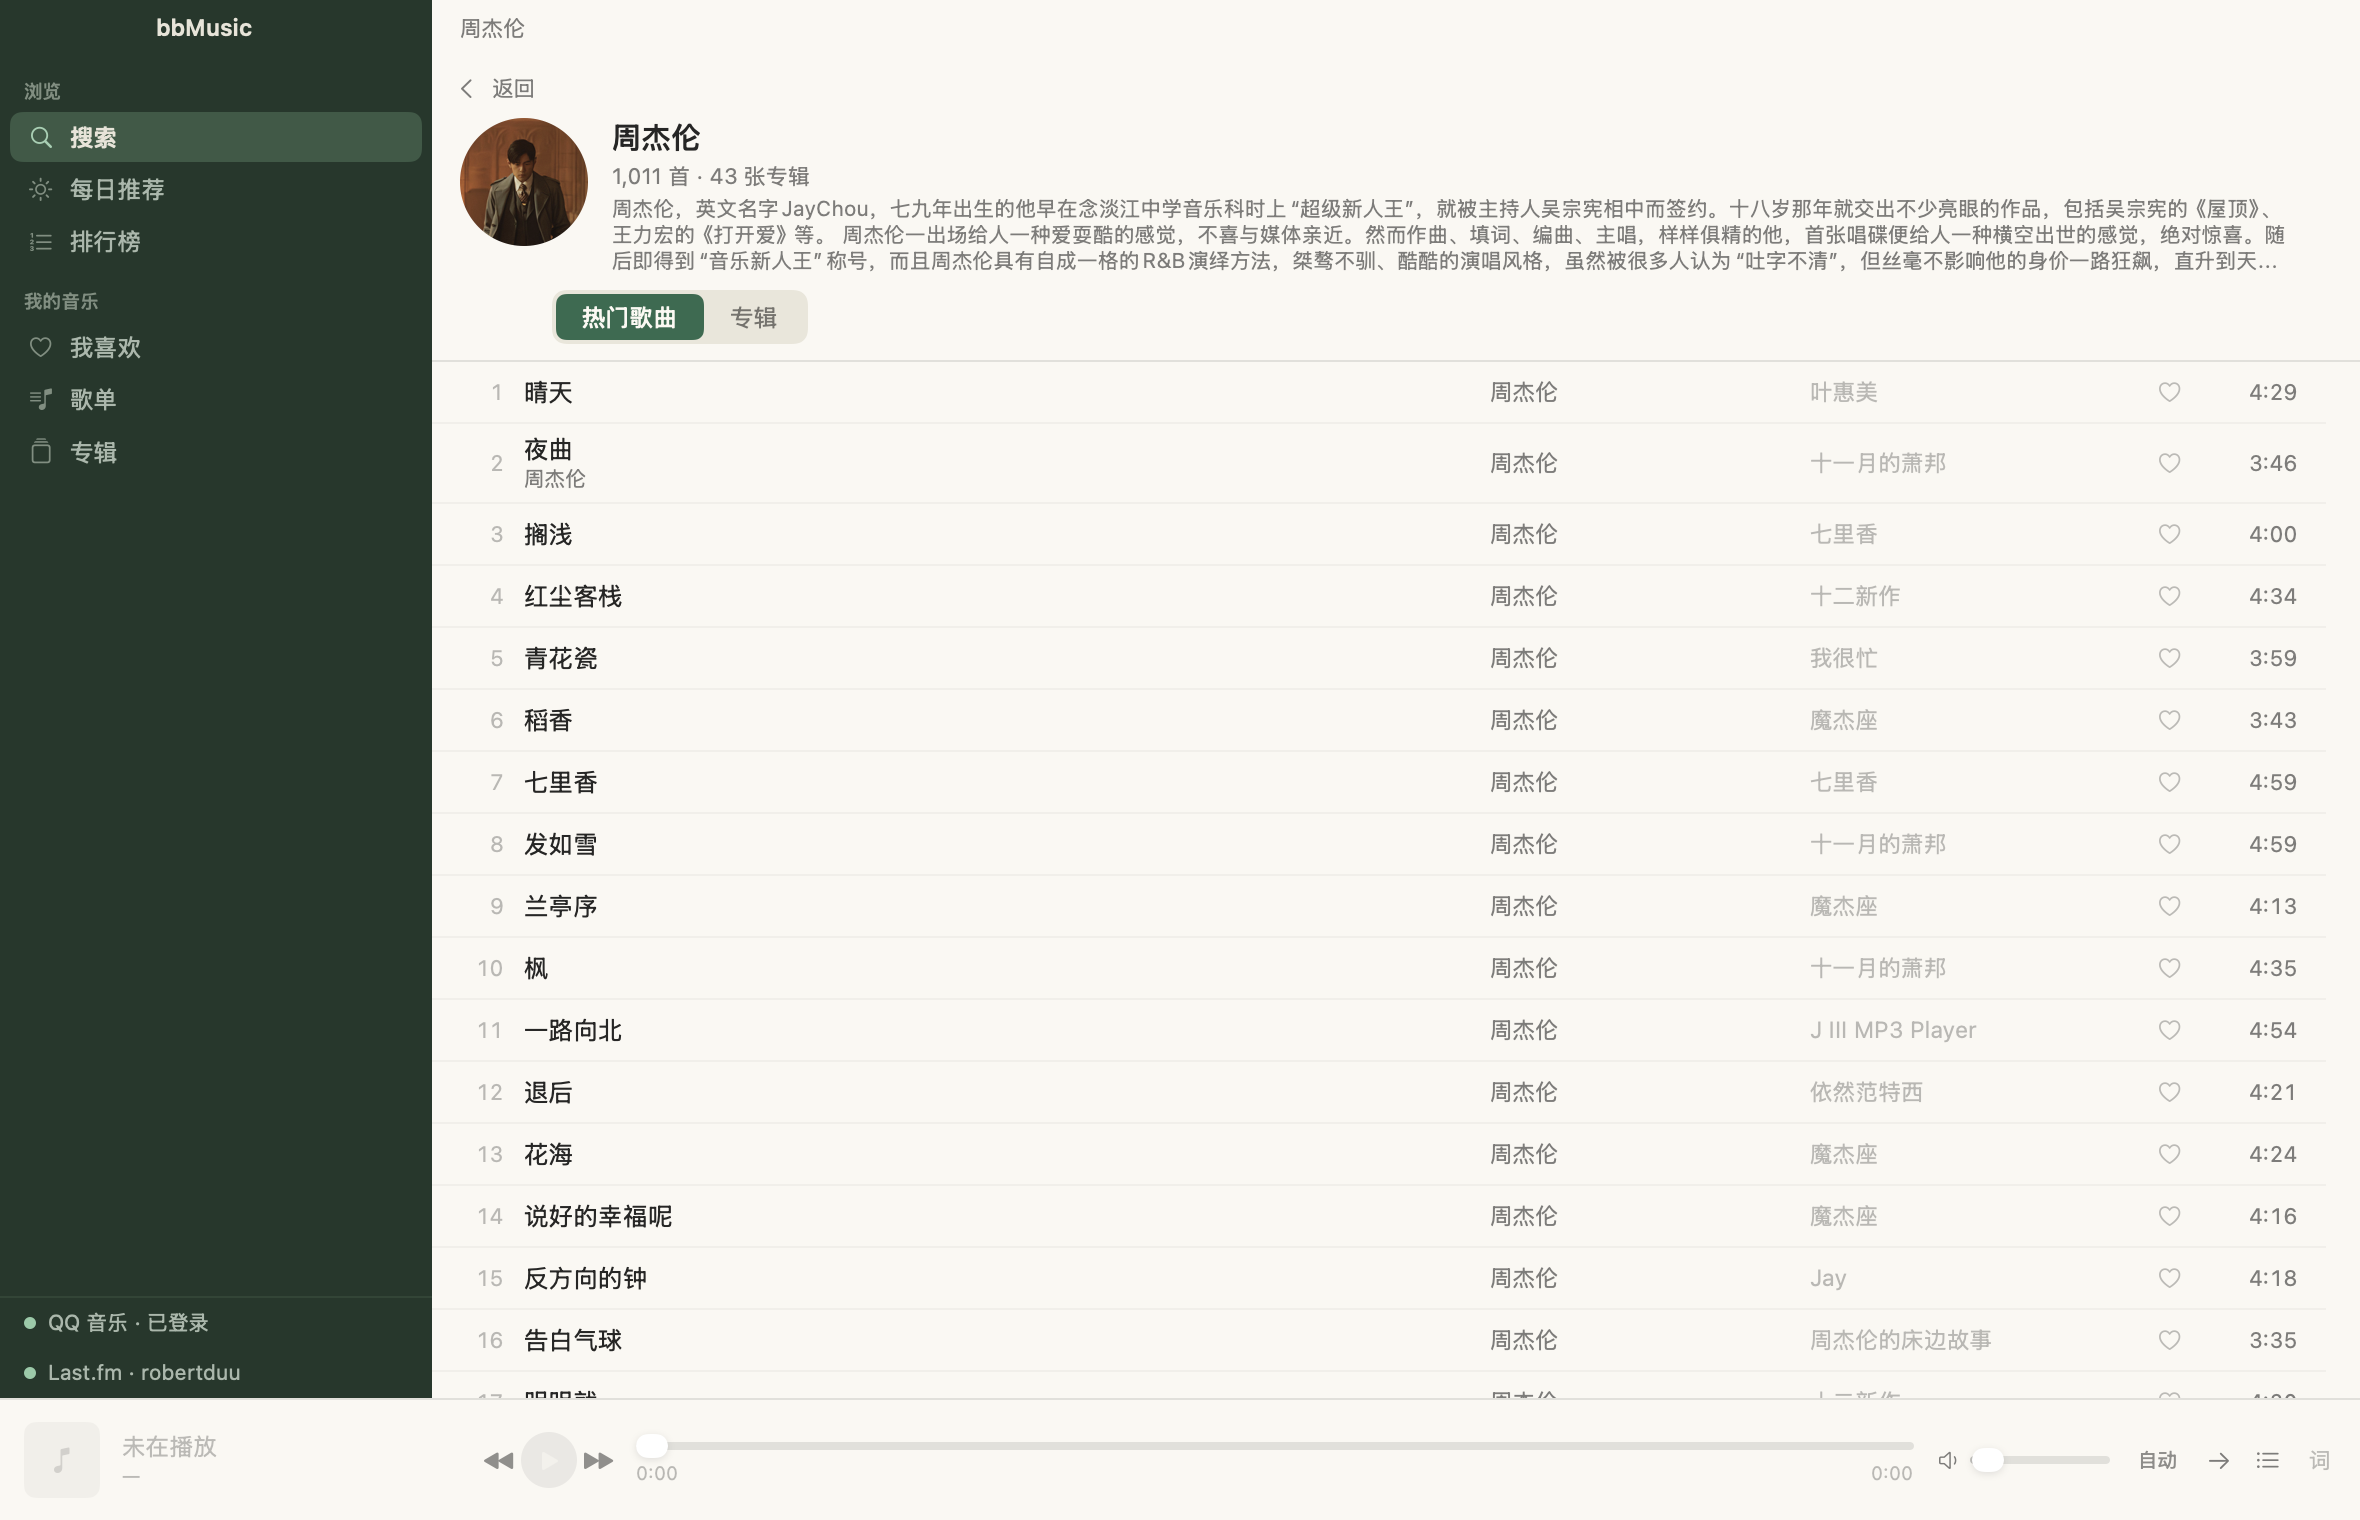
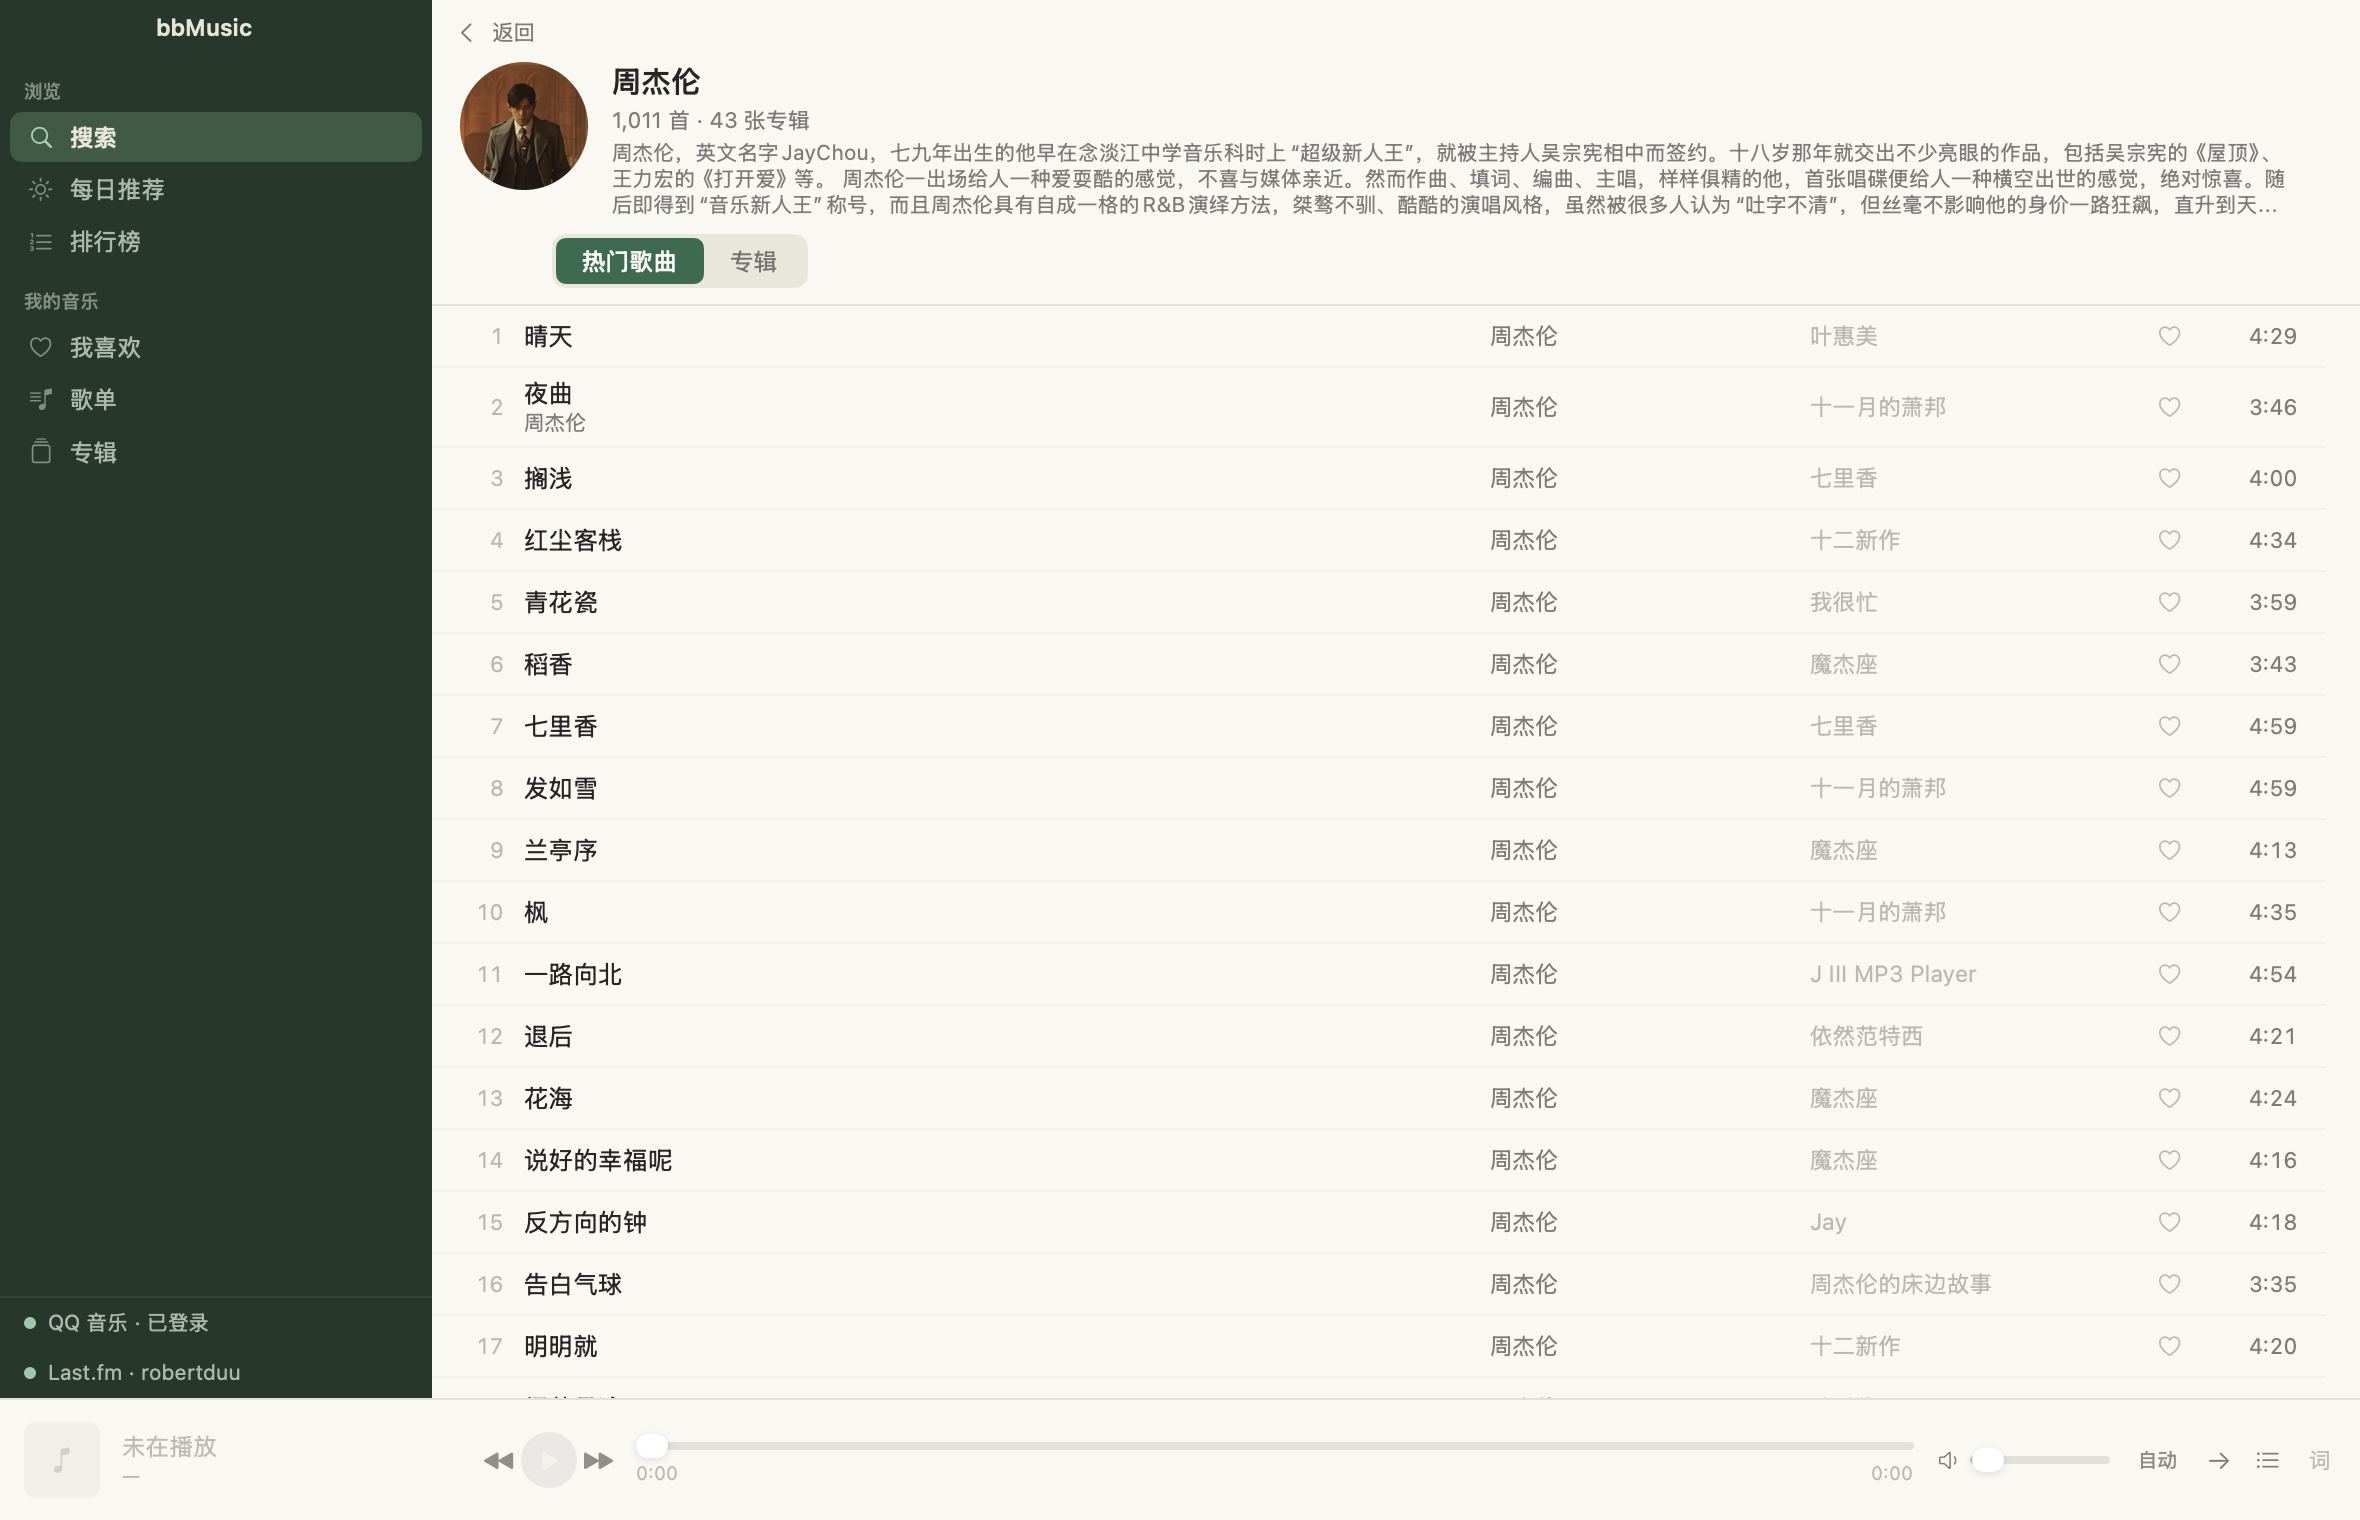
Drop the repeated page name above the content
The strip across the top of the content area said "排行榜" while the chart
page's own header said "排行榜 · 24 个" directly below it, and the sidebar
was already highlighting the same entry. Three copies of one fact.

The strip is gone and the content starts at the window's top edge. The
sidebar's plate still reaches that edge with the app's name in it, which is
what replaces the system title bar; nothing else was needed there.

`AppModel.locationTitle` existed only to feed that strip, so it went too.

diff --git a/Sources/bbMusic/App/AppModel.swift b/Sources/bbMusic/App/AppModel.swift
@@ -496,36 +496,6 @@ final class AppModel: ObservableObject {
     /// How many tracks the open chart claims to have.
     var toplistTotal: Int { routes.current?.toplistTotal ?? 0 }
 
-    /// What the window's title bar says the user is looking at: the page's own name when a detail
-    /// page is open, otherwise the section. The count is included where one is meaningful.
-    var locationTitle: String {
-        switch route {
-        case .toplist(let toplist):
-            return toplistTotal > 0 ? "\(toplist.title) · \(toplistTotal) 首" : toplist.title
-        case .playlist(let playlist):
-            return "\(playlist.name) · \(libraryTracks.count) 首"
-        case .searchPlaylist(let playlist):
-            return "\(playlist.name) · \(libraryTracks.count) 首"
-        case .album(let album):
-            return album.name
-        case .artist(let artist):
-            return artist.name
-        case nil:
-            switch pane {
-            case .lyrics:
-                return player.currentTrack.map { "歌词 · \($0.title)" } ?? "歌词"
-            case .trackDetail:
-                return player.currentTrack.map { "歌曲详情 · \($0.title)" } ?? "歌曲详情"
-            case .list:
-                break
-            }
-            if showQueue { return "播放队列 · \(player.queue.count) 首" }
-            if section == .daily { return "每日推荐 · \(libraryTracks.count) 首" }
-            if section == .liked { return "我喜欢 · \(libraryTracks.count) 首" }
-            return section.title
-        }
-    }
-
     /// Whether a chart is open. A chart is the only page that reports load progress.
     var isChartPage: Bool {
         if case .toplist? = route { return true }

diff --git a/Sources/bbMusic/UI/RootView.swift b/Sources/bbMusic/UI/RootView.swift
@@ -13,15 +13,13 @@ struct RootView: View {
             HStack(spacing: 0) {
                 SidebarView(model: model, player: player)
                     .frame(width: Theme.Metrics.sidebarWidth)
-                VStack(spacing: 0) {
-                    // Level with the sidebar's plate, so the two columns start their content on the
-                    // same line and the top strip reads as one bar across the window.
-                    ContentTopBar(model: model)
-                    content
-                        .frame(maxWidth: .infinity, maxHeight: .infinity)
-                }
-                .frame(maxWidth: .infinity, maxHeight: .infinity)
-                .background(palette.content)
+                    .frame(maxHeight: .infinity)
+                // No strip above the content: each page states what it is in its own header, and the
+                // sidebar already shows where the user is. A second copy of the same name across the
+                // top was pure repetition.
+                content
+                    .frame(maxWidth: .infinity, maxHeight: .infinity)
+                    .background(palette.content)
             }
             if let success = model.writeSuccess {
                 HStack(spacing: 6) {

diff --git a/Sources/bbMusic/UI/WindowChrome.swift b/Sources/bbMusic/UI/WindowChrome.swift
@@ -90,26 +90,3 @@ struct TitleBarView: View {
         .background(WindowDragArea())
     }
 }
-
-/// The strip that runs across the top of the content area, level with the sidebar's plate.
-///
-/// It carries what the system title bar used to: where the user is. Nothing else lives here — the
-/// pages below already own their own headers, and a second row of controls would be one too many.
-struct ContentTopBar: View {
-    @ObservedObject var model: AppModel
-    @Environment(\.palette) private var palette
-
-    var body: some View {
-        HStack(spacing: 6) {
-            Text(model.locationTitle)
-                .font(.system(size: 11))
-                .foregroundStyle(.secondary)
-                .lineLimit(1)
-            Spacer(minLength: 8)
-        }
-        .padding(.horizontal, 14)
-        .frame(height: Theme.Metrics.titleBarHeight)
-        .background(palette.content)
-        .background(WindowDragArea())
-    }
-}

diff --git a/architecture-design.md b/architecture-design.md
@@ -200,7 +200,7 @@ QQ 音乐其余位置不提供结构化的作曲家/作品号/演奏者字段。
 
 **外观是用户偏好，不是系统事实。** 调色板本来就分浅色/深色两套，只差一个不改变整个桌面的切换方式：`AppearanceMode`（跟随系统 / 浅色 / 深色）存在本地 `appearance.json`，启动时在画第一帧之前套用 `NSApp.appearance`，所以不会先闪一下系统的外观。视图侧不用改——`RootView` 一直是从 `colorScheme` 解析调色板的，`NSApp.appearance` 改变的正是这个环境值。截图模式在 `start()` 之后才强制外观，避免把一次截图的选择写成用户偏好。
 
-**窗口没有系统标题栏。** `.windowStyle(.hiddenTitleBar)` 去掉系统的灰色标题条，内容区 `ignoresSafeArea(edges: .top)` 顶到窗口最上沿，于是侧边栏的绿板一直延伸到窗口顶端，红绿灯悬浮在它上面（和访达的侧边栏同样的做法）。顶栏由两段拼成、高度一致：左段是绿板上的 app 名，右段是纸白上的当前位置（`AppModel.locationTitle`：详情页用自己的名字，否则用栏目名，带上有意义的数量）。两段都铺了 `WindowDragArea`（`mouseDownCanMoveWindow`），所以拖顶栏能移动窗口，而画在上面的按钮仍能收到自己的点击。
+**窗口没有系统标题栏。** `.windowStyle(.hiddenTitleBar)` 去掉系统的灰色标题条，内容区 `ignoresSafeArea(edges: .top)` 顶到窗口最上沿，于是侧边栏的绿板一直延伸到窗口顶端，红绿灯悬浮在它上面（和访达的侧边栏同样的做法）。顶栏只有一段：绿板上的 app 名，铺了 `WindowDragArea`（`mouseDownCanMoveWindow`），拖它能移动窗口，而画在上面的按钮仍能收到自己的点击。内容区**没有**横向标题条——每页自己的头部已经说了它是什么，侧边栏的选中态也已经说明用户在哪，再横一条同样的名字纯属重复。
 
 系统标题栏试过两条路都不可靠：直接改 `titlebarAppearsTransparent` 后，AppKit 仍会在内容之上保留 28pt 的条带，自绘顶栏被挤到它下面，红绿灯悬在一片空的绿带上；用 `NSTitlebarAccessoryViewController` 把顶栏塞进真标题栏，则在窗口尺寸变化时反复重排、窗口会短暂消失。现在这条路不碰 AppKit 的视图层级，只依赖公开的窗口样式与安全区。
 

diff --git a/README.md b/README.md
@@ -38,7 +38,7 @@ macOS 上的 QQ 音乐播放器：原生 SwiftUI，用 Last.fm 记录听歌。
 | | |
 |---|---|
 | **外观** | 设置里可选跟随系统 / 浅色 / 深色（只影响 bbMusic，不改系统设置），选择会被记住 |
-| **自绘顶栏** | 不用系统标题栏：侧边栏绿板延伸到窗口顶端，红绿灯悬浮其上；顶栏右段显示当前位置（栏目或详情页名，带数量）。拖顶栏即可移动窗口 |
+| **自绘顶栏** | 不用系统标题栏：侧边栏绿板延伸到窗口顶端，红绿灯悬浮其上，app 名写在绿带上，拖它即可移动窗口。内容区顶部不重复页面名（侧边栏选中态与各页头部已经说明） |
 
 ### 播放
 
